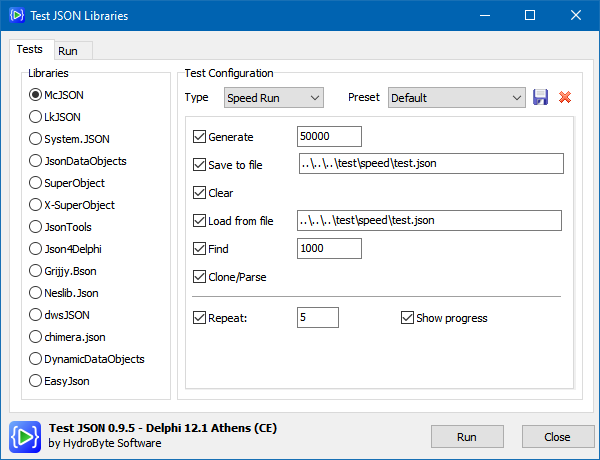
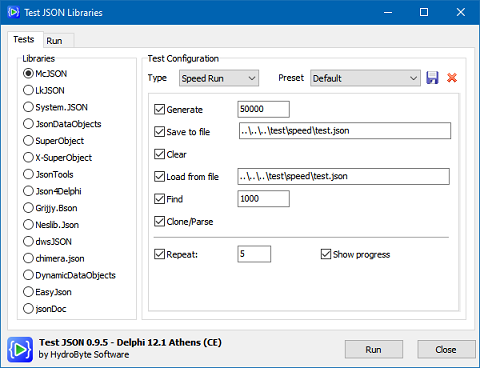
Added JsonDoc library. Minor cleanup after stijnsanders's PR.

diff --git a/README.md b/README.md
@@ -22,11 +22,12 @@ Library          | Delphi | C++Builder |
 [Grijjy.Bson](https://github.com/grijjy/GrijjyFoundation)                                  | ✓ |   |
 [Neslib.Json](https://github.com/neslib/Neslib.Json)                                       | ✓ |   |
 [dwsJSON](https://github.com/EricGrange/DWScript)                                          | ✓ |   |
-[jsonDoc](http://github.com/stijnsanders/jsonDoc#jsonDoc)                                  | ✓ |   |
 [chimera.json](https://bitbucket.org/sivv/chimera/src/develop/)                            | ✓ |   |
 [DynamicDataObjects](https://github.com/SeanSolberg/DynamicDataObjects)                    | ✓ |   |
 [EasyJson](https://github.com/tinyBigGAMES/EasyJson)                                       | ✓ |   |
+[jsonDoc](http://github.com/stijnsanders/jsonDoc#jsonDoc)                                  | ✓ |   |
 
+Note: in order of inclusion.
 
 ## Compilers and computer
 - `Delphi` VCL 32-bits project built with version `12.1` (Athens Community Edition).
@@ -64,7 +65,7 @@ This is a performance test with the following configuration (select `Default` in
 
 ### Results with Delphi
 
-Library             | Generate  | Save     | Load     | Find     | Parse    | Total     | Memory    |
+Library             | Generate  | Save     | Load     | Find     | Parse    | [Total]   | Memory    |
 :-------------------|----------:|---------:|---------:|---------:|---------:|----------:|----------:|
 `Neslib.Json`       |     .03 s |    .03 s |    .03 s |    .00 s |    .04 s |    0.18 s | 10.19 MiB |  
 `Grijjy.Bson`       |     .03 s |    .04 s |    .04 s |    .00 s |    .06 s |    0.23 s |  7.52 MiB |
@@ -73,6 +74,7 @@ Library             | Generate  | Save     | Load     | Find     | Parse    | To
 `System.JSON`       |     .02 s |    .01 s |    .06 s |    .22 s |    .06 s |    0.43 s | 11.38 MiB |
 `EasyJson`          |     .02 s |    .01 s |    .06 s |    .23 s |    .07 s |    0.45 s | 11.38 MiB |  
 `LkJson`            |     .06 s |    .05 s |    .10 s |    .01 s |    .14 s |    0.45 s |  2.99 MiB |
+`JsonDoc`           |     .18 s |    .07 s |    .11 s |    .01 s |    .27 s |    0.70 s |  6.14 MiB |
 `SuperObject`       |     .13 s |   1.21 s |    .05 s |    .00 s |    .06 s |    1.53 s |  9.68 MiB |
 `dwsJSON`           |     .01 s |    .01 s |   0.92 s |    .03 s |   0.91 s |    1.92 s |  9.88 MiB |
 `JsonDataObjects`   |    5.61 s |    .01 s |    .09 s |    .11 s |    .10 s |    5.97 s |  8.98 MiB |
@@ -136,6 +138,7 @@ Library             | Expected to Fail but Passed                      | Expecte
 `chimera.json`      |         fail(01, 08, 10, 16, 18, 19, 20, 21, 23) |                             - |
 `DynamicDataObjects`|     fail(05, 06, 07, 09, 16, 17, 18, 19, 20, 21) |                  pass(01, 05) |
 `EasyJson`          |                                         fail(07) |                  pass(04, 05) |
+`JsonDoc`           |                                 fail(15, 20, 21) |          pass(01, 02, 04, 05) |
 
 ### Results with C++Builder1
 
